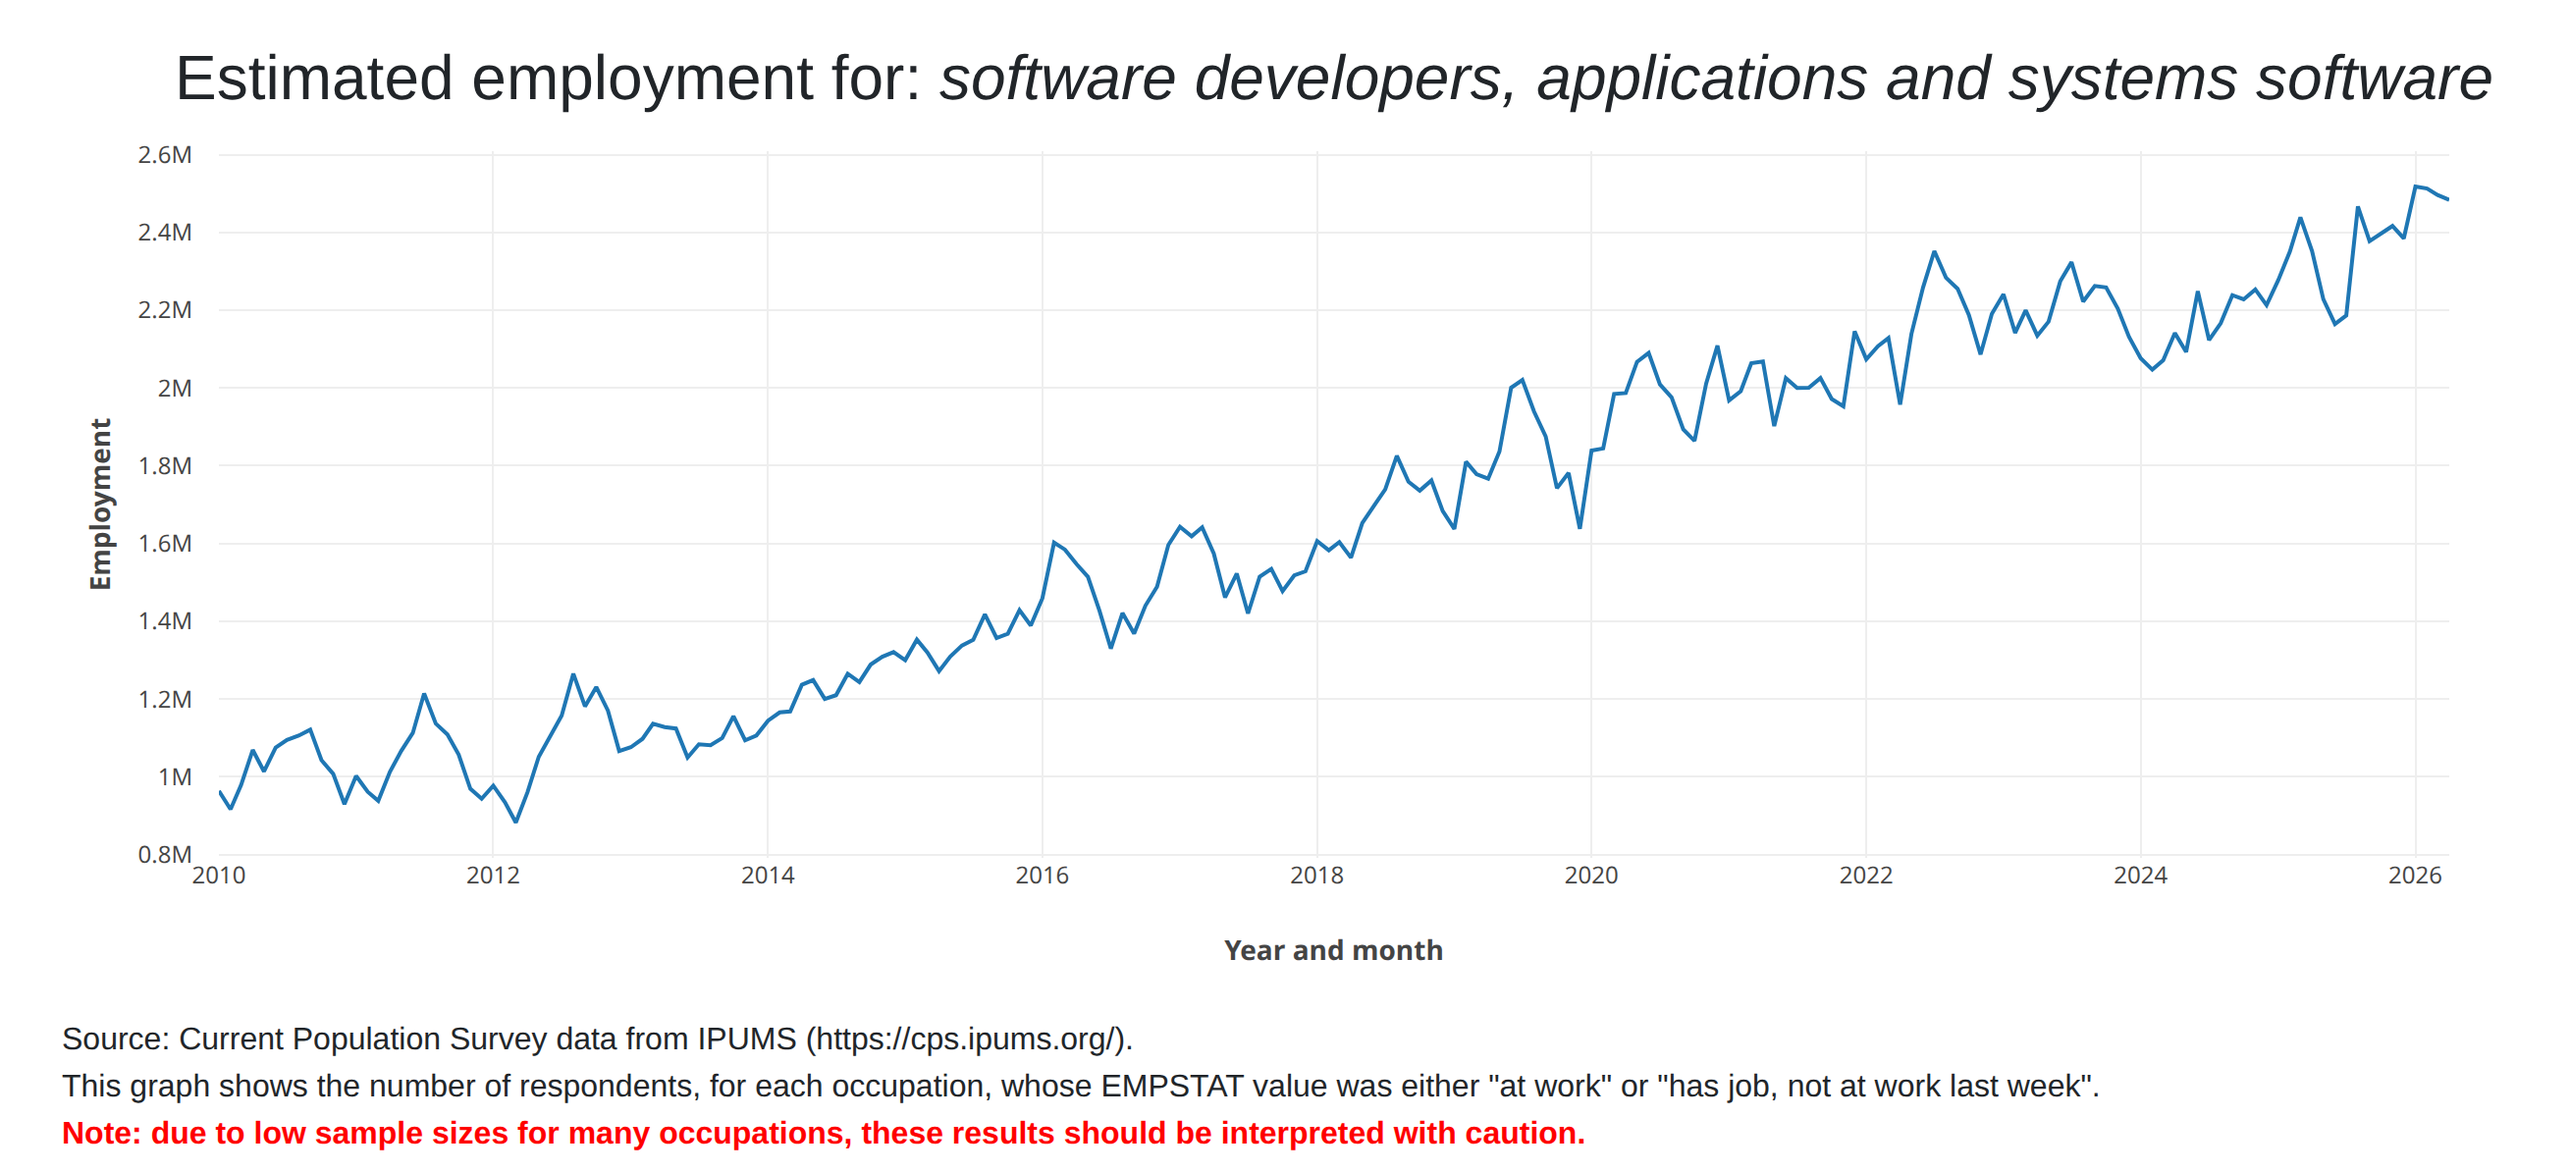
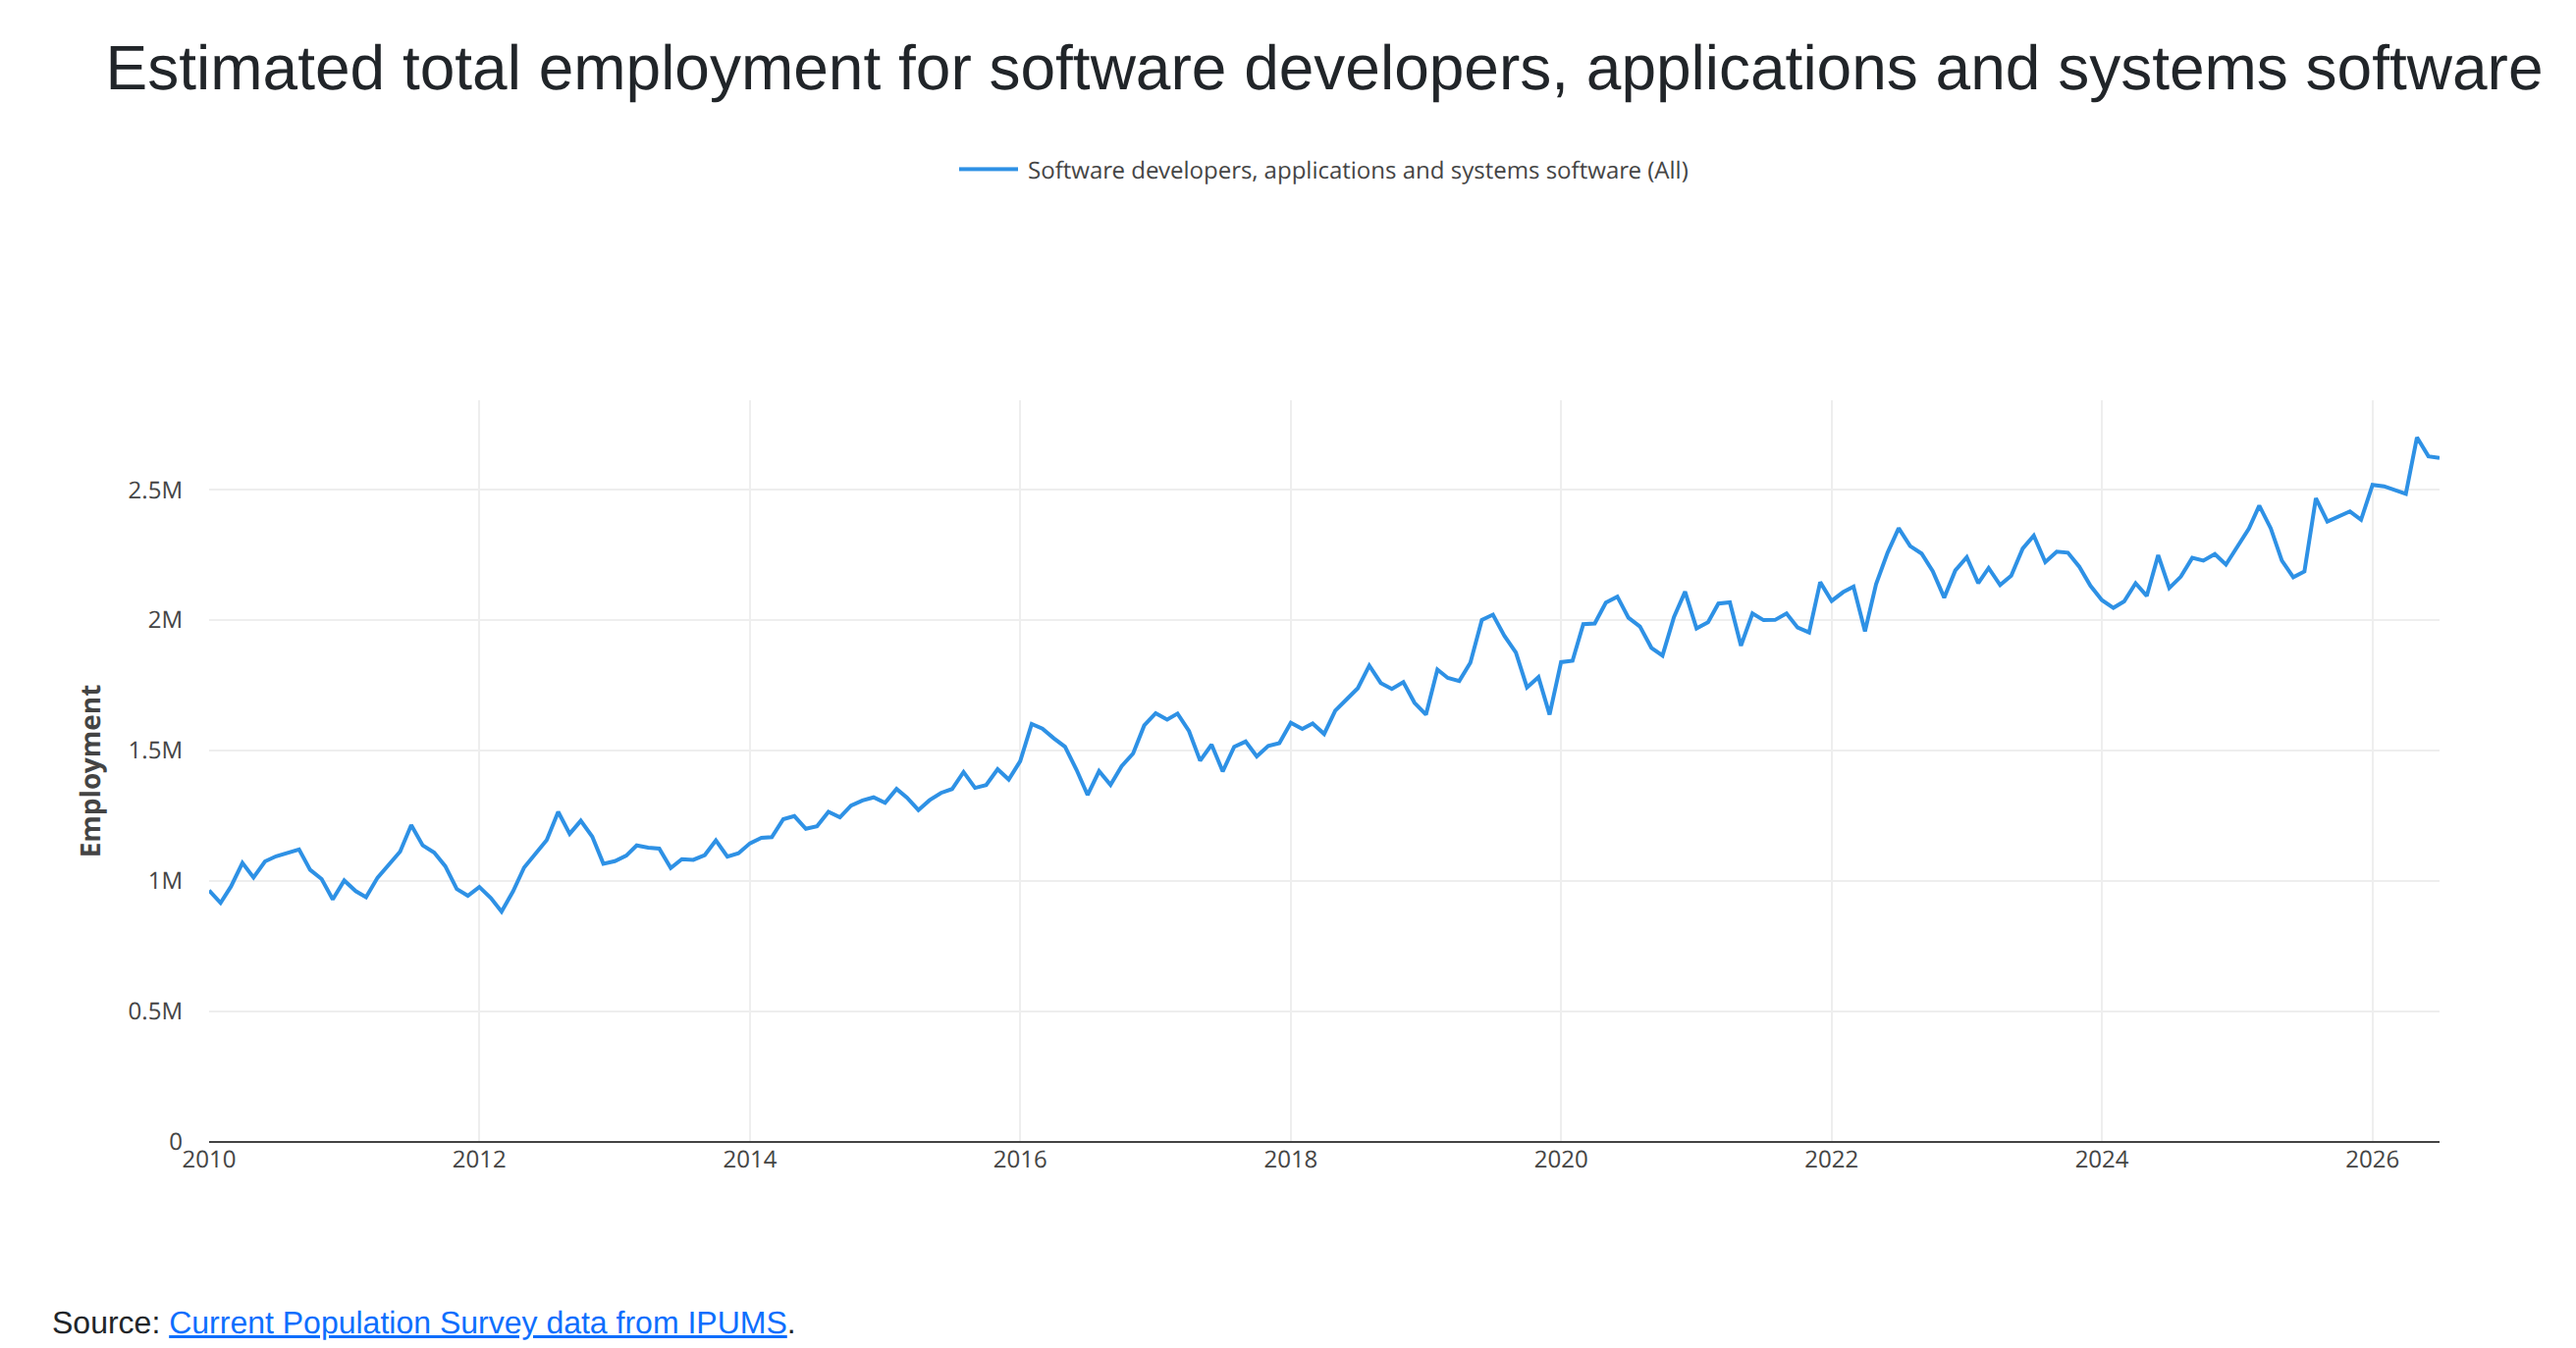
Made occupations lowercase within titles

diff --git a/occ_dashboard.html b/occ_dashboard.html
@@ -1494,7 +1494,7 @@ employment for selected occupations';
 
 
                 trend_chart_title.innerHTML = 'Estimated total \
-employment'+ age_range_title_component + ' for ' + occupation_array[0];
+employment'+ age_range_title_component + ' for ' + occupation_array[0].toLowerCase();
             }
         }
 
